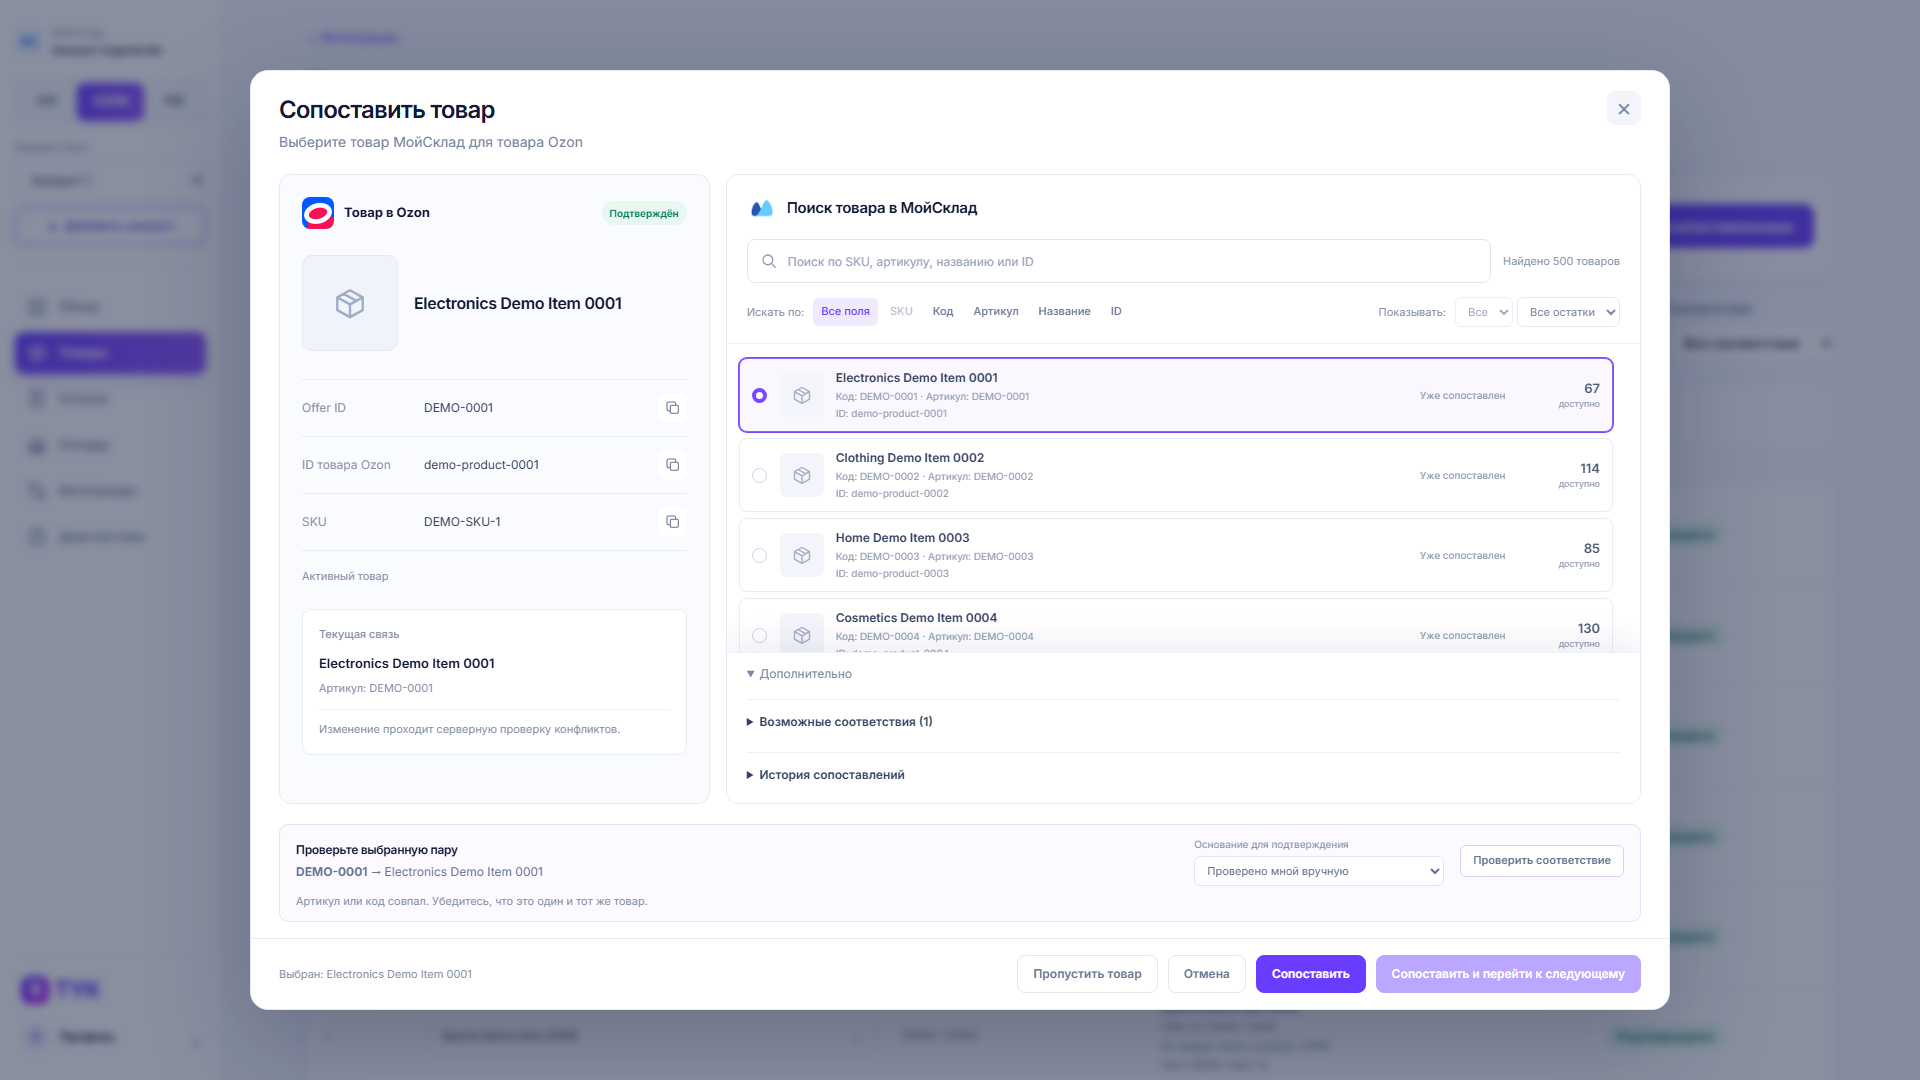
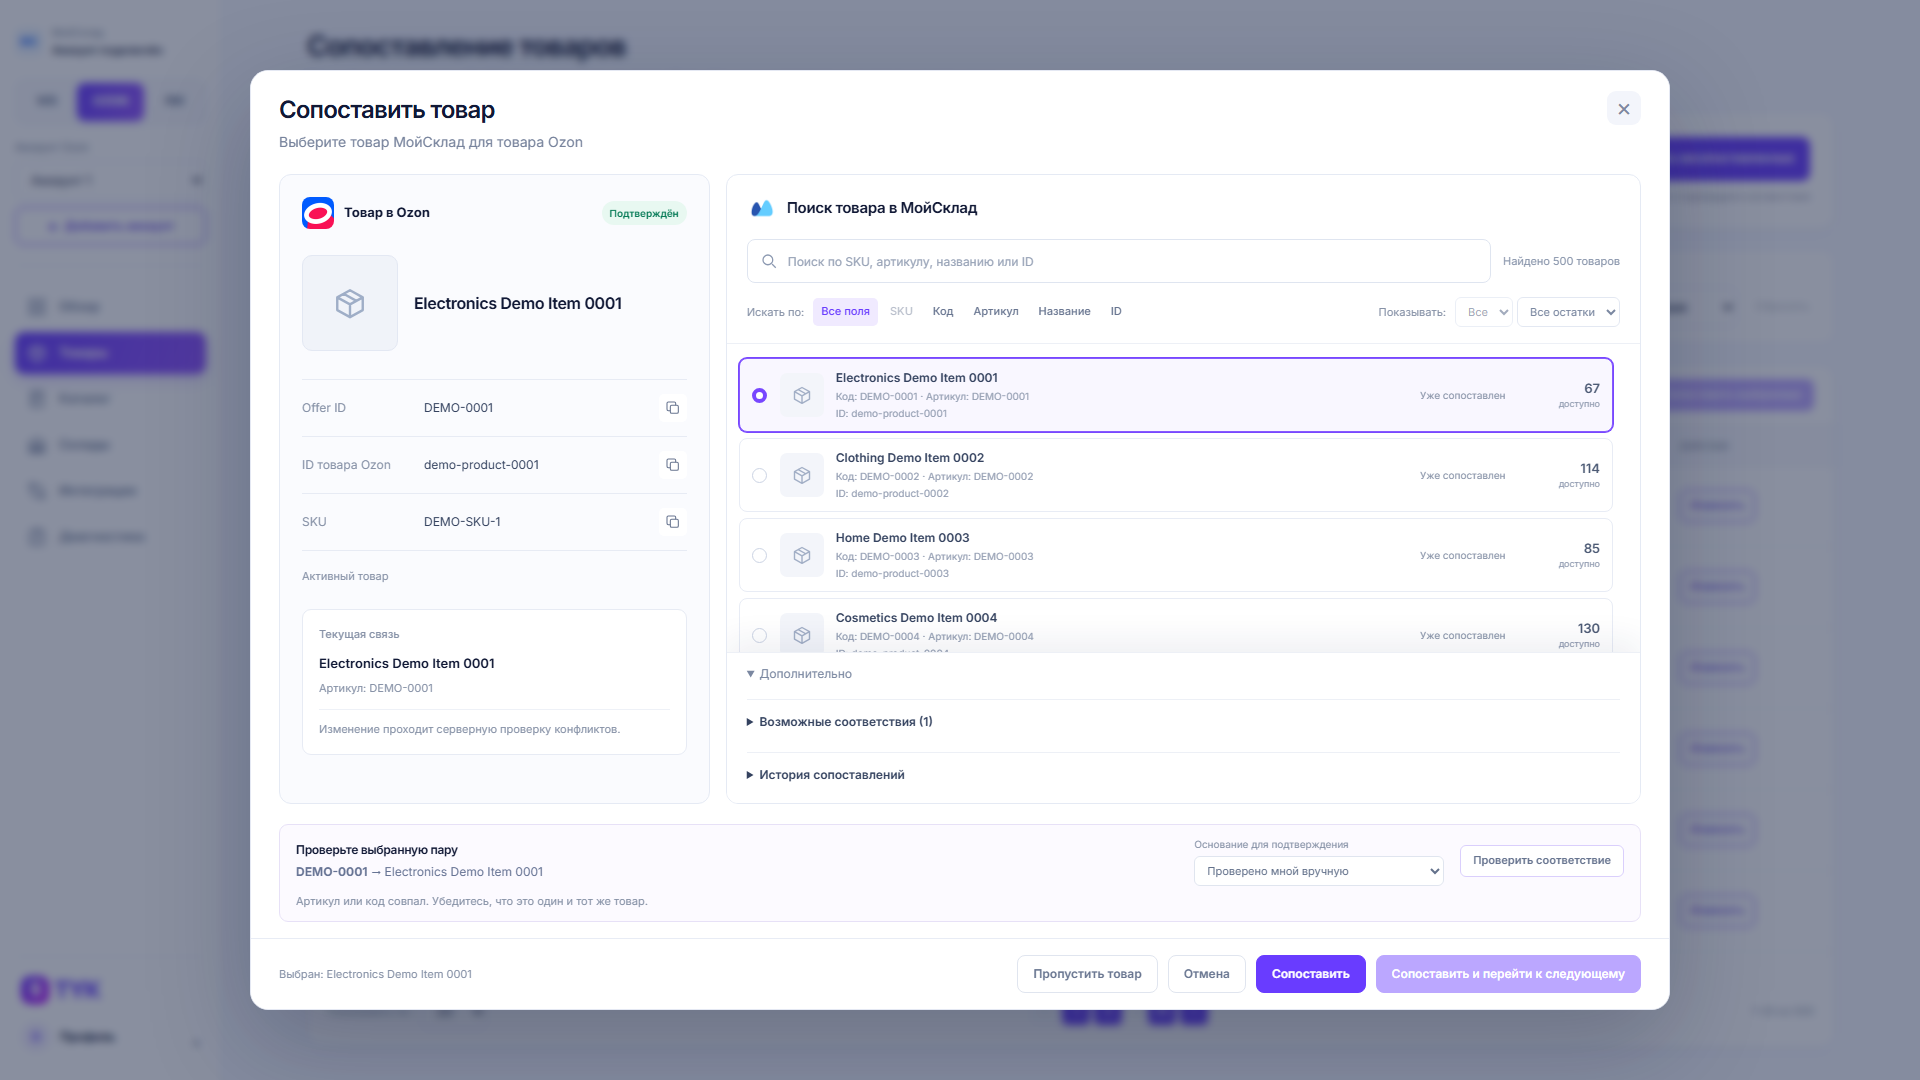
docs: add matching page handoff and responsive browser evidence

diff --git a/docs/audit/STYK_MATCHING_PAGE_REDESIGN_HANDOFF.md b/docs/audit/STYK_MATCHING_PAGE_REDESIGN_HANDOFF.md
@@ -1,0 +1,125 @@
+# STYK matching page redesign
+
+Branch: `feature/styk-product-matching-redesign`.
+PR: https://github.com/lilter96/styk/pull/3 (no merge).
+
+## Scope
+
+Redesigned the existing `/products` page, reusing `ProductReview` and the existing
+review/confirmation/idempotency/audit workflow. No synchronization, provider,
+worker, authorization, conflict, mapping-version or audit-write logic changed.
+No migrations, seed changes, external writes or production mocks were added.
+
+Removed the Integrations back link. On this page the global confirmation notice
+uses a compact presentation: historical success timestamp, mapping ID/version,
+evidence code and technical disclosure no longer occupy the workspace. Pending,
+uncertain-outcome, error and session-loss recovery actions remain available.
+These changes affect presentation only; stored confirmations and audit survive.
+
+## Changed files and components
+
+- `web/src/ProductMappingPage.tsx`: page composition, real progress summary,
+  debounced server search, supported filters/reset, pagination and safe queue.
+- `web/src/ProductMappingTable.tsx`: row layout, placeholders, selector opening
+  the existing modal, copy control, independent archive/mapping badges, actions,
+  current-page selection and pagination components.
+- `web/src/matching-page.css`: scoped foundations, fixed table columns, 56px
+  placeholders, compact rows, sticky headings and scrollable table region.
+- `web/src/App.tsx`, `web/src/Confirmation.tsx`: route-scoped compact notices.
+- `web/src/App.test.tsx`, `web/src/MappingWorkflow.test.tsx`: assertions updated
+  for the new badge text and page-selection checkbox, retaining safety checks.
+- `internal/console/products.go`: exact filtered total and variable page size.
+- `internal/console/product_pagination.go`, `product_pagination_test.go`:
+  bounded pagination parsing and regression cases.
+- `web/e2e/matching-page.spec.ts`: local Go API and browser regression coverage.
+
+Unrelated earlier overview changes remain outside these commits.
+
+## Read-only API changes
+
+`GET /api/products` keeps `tenant`, `moysklad_account`, `ozon_account`, `search`,
+`archived`, `mapping`, and `offset`. Legacy callers still receive 50 rows by
+default. Optional `pageSize` accepts 1–100; the page UI offers 20/50/100. Optional
+`page` is 1-based and overrides offset. Maximum offset remains 100000; invalid
+sizes/pages return HTTP 400 `INVALID_PAGE`.
+
+Response preserves `items`, `has_next`, `offset` and adds `total`, `page`,
+`pageSize`. `total` is the count after the same SQL search/archive/mapping filters,
+including on empty or out-of-range pages. Count and page are read within the
+existing read-only repeatable-read transaction. Both queries share one filter
+CTE; stable ordering remains product ID. Page-size changes do not change matching
+rules. The matching engine still processes only the bounded returned page.
+
+No full catalog is fetched for frontend filtering or pagination. Local filtering
+is limited to UI selection/queue IDs. Search consumes React Query's abort signal
+and uses a 350ms debounce; changing filters/search/size resets the page. The
+initial debounce no longer resets a page after navigation.
+
+## Data and behavior
+
+Progress uses current-catalog counts from diagnostics, validated before computing
+percentage and remaining count. Confirmation invalidates products and diagnostics
+as before. Historical mappings are never used as a current-catalog denominator.
+
+Archive is independent from matching status. Confirmed maps to green, conflict to
+red, and other server matching outcomes to an orange unmatched presentation; the
+underlying server status remains in the badge tooltip. Archive gets its own badge.
+
+The read contract currently provides no product image URLs or MoySklad SKU.
+Neutral placeholders are shown, and no Ozon SKU is mislabeled as a MoySklad SKU.
+MoySklad name/ID/article use the mapped values returned by the existing endpoint;
+the former extra first-page MoySklad lookup is removed. Full identifiers remain
+in tooltips; the mapped article can be copied.
+
+Only supported filters appear: archive/activity and confirmed/unconfirmed
+mapping membership. Conflict and arbitrary product-status filters are not added:
+their exact engine-derived semantics are not supported by the SQL page selector.
+There is no decorative status selector or new client-side classification filter.
+
+Mass selection is explicitly limited to eligible suggestions on the current page,
+with the existing 100-item queue cap and individual review/acknowledgement. The
+queue persists across pages; deselecting a page removes only its eligible IDs.
+Confirmed, archived, truncated or candidate-free products cannot be batch-queued.
+Queue capacity does not block opening a row individually. Completed queues cannot
+trigger an inert bulk action. Save-and-next remains the existing modal workflow.
+
+## Validation
+
+- Frontend typecheck/production build, ESLint and existing Vitest suite pass.
+- Go: `make lint` (go vet and golangci-lint), `make test`, `go test -race ./...`,
+  `make build`, `go build ./...` pass in the existing Go 1.27.3 Docker environment.
+- Four real local Playwright tests pass: general application access, anonymous
+  denial, matching modal confirmation/save-next, and the new page scenario.
+- Page test covers exact total, 20/100 sizes, server page navigation, invalid
+  pagination, empty/deep pages, membership totals, archive filtering, foreign
+  tenant rejection, clear/reset, current-page selection, clipboard copy, opening
+  an existing link, bulk queue opening and console errors.
+- Screenshots inspected at 1536×1024, 1920×1080, 1440×900, 1366×768; tablet/mobile
+  screenshots at 820×1180 and 390×844 additionally assert no document overflow.
+- The old modal scenario continues exercising real confirmation and advancing
+  to the next product against the updated local Go API. Only isolated seeded
+  local STYK mappings are written; no provider mutations occur.
+
+The local API binary was rebuilt and restarted with existing DPAPI-protected demo
+configuration. Its prior binary is preserved at `.local/matching-page-backup-api.exe`.
+
+## Visual evidence and limitations
+
+- [Before](matching-page/before.png)
+- [1536×1024](matching-page/1536.png)
+- [1920×1080](matching-page/1920.png)
+- [1440×900](matching-page/1440.png)
+- [1366×768](matching-page/1366.png)
+- [Selected/unmatched](matching-page/selected.png)
+- [Empty search](matching-page/empty.png)
+- [Tablet](matching-page/820.png)
+- [Mobile](matching-page/390.png)
+
+The approved reference screenshot was not attached in the available conversation.
+Consequently no pixel-equivalence claim or fabricated visual comparison is made.
+The written composition/tokens and actual before/after renders guided this pass.
+The browser review corrected table height/footer visibility, pagination styles,
+and the initial debounce race. PR remains draft pending reference comparison and
+owner acceptance. Large production-catalog performance has not been benchmarked;
+the existing database timeout remains enforced. No indexes were added without
+query-plan evidence.

diff --git a/docs/audit/STYK_PRODUCT_MATCHING_PR.md b/docs/audit/STYK_PRODUCT_MATCHING_PR.md
@@ -2,6 +2,11 @@ The product matching dialog now uses a wide two-column workspace with an Ozon id
 
 The second UI pass reuses the actual Ozon and MoySklad brand assets from the demo, aligns metadata and copy controls, refines the result grid and spacing, and restores consistent footer button sizes. Additional is closed by default and contains only Possible matches and Mapping history. Confirmation is presented separately above the footer, preserving acknowledgement, conflicts, expiry and uncertain-outcome retry. No backend or synchronization logic changed in this pass.
 
+The matching page is now redesigned as well: real progress/remaining count, unified debounced search and supported filters, six-column table with 56px placeholders, mapped-item selectors, copyable articles, independent archive badges, row actions, safe page-selection queue and server pagination. The existing `/api/products` route now returns exact filtered total and supports bounded variable page sizes, within the existing repeatable-read transaction. Page confirmation notices hide historical success/technical presentation while retaining recovery controls. [Page handoff](https://github.com/lilter96/styk/blob/feature/styk-product-matching-redesign/docs/audit/STYK_MATCHING_PAGE_REDESIGN_HANDOFF.md) records the contract and limits. Four local browser tests pass.
+
+Matching page at 1536×1024:
+![Matching page](https://github.com/lilter96/styk/blob/feature/styk-product-matching-redesign/docs/audit/matching-page/1536.png?raw=true)
+
 The existing `/api/moysklad-products` route supports query/field selection, observed in-stock filtering, exact total and bounded server pages, with stable ordering and tenant/account isolation. No synchronization algorithms or database schema changed.
 
 This PR remains draft: the requested screenshot was not attached, so pixel equivalence cannot be verified. Separate MoySklad SKU and activity are not persisted by the current importer; the corresponding controls are unavailable and API requests explicitly return 422. Prices/images are omitted or represented by placeholders. Explicit review acknowledgement is preserved rather than silently bypassed.
